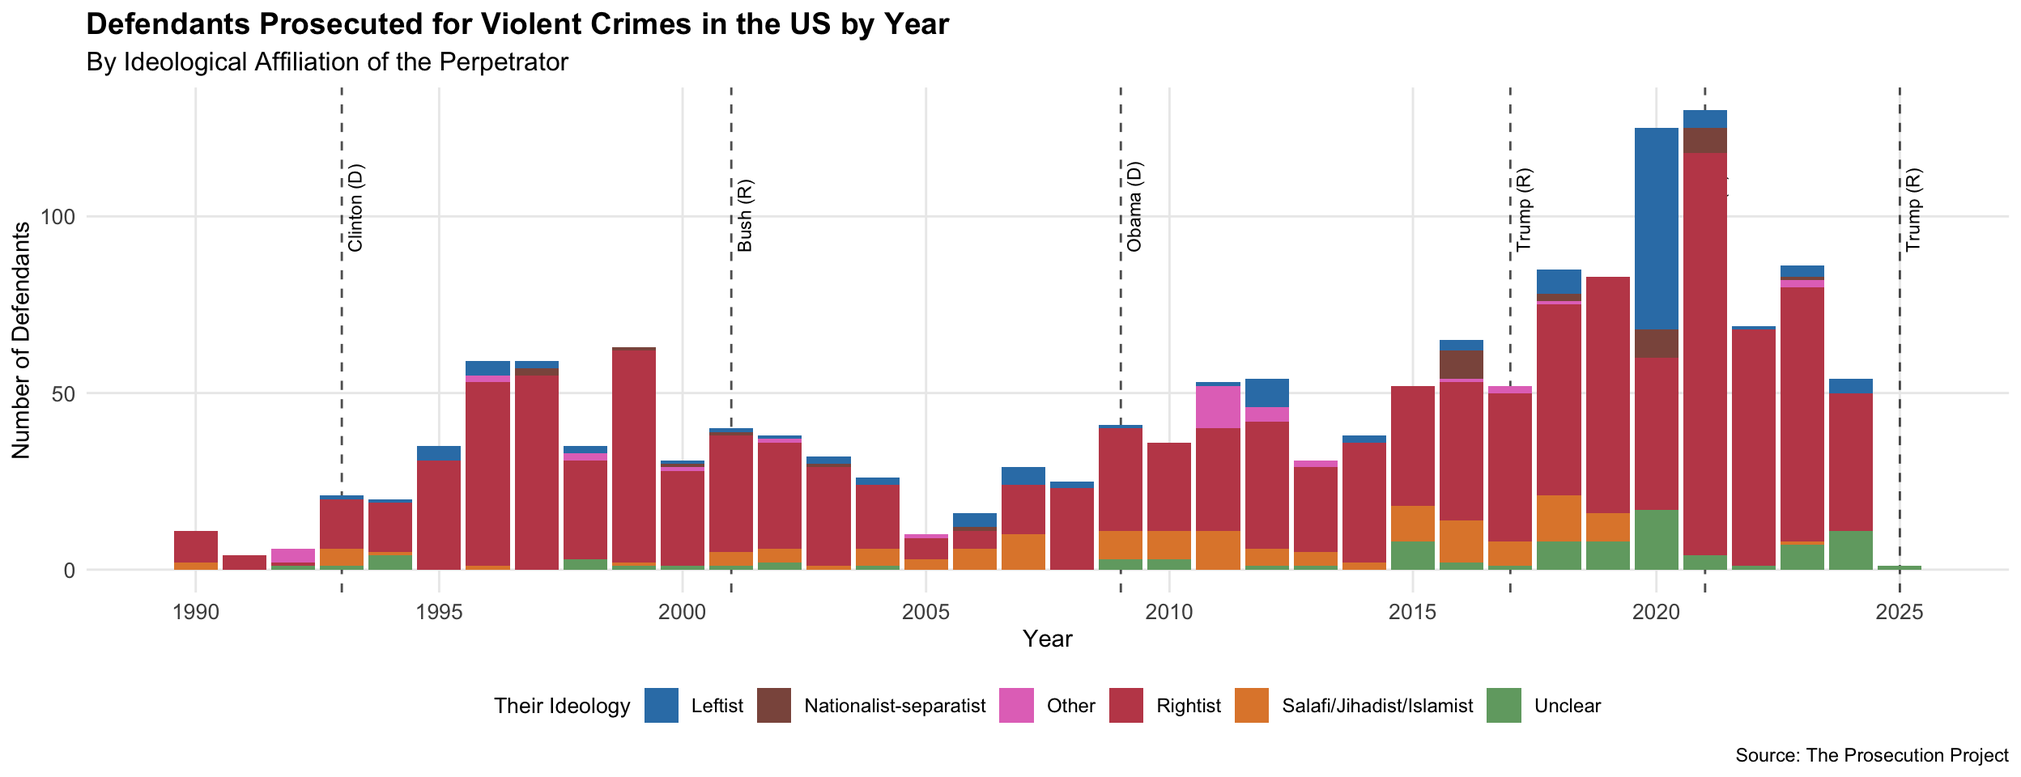
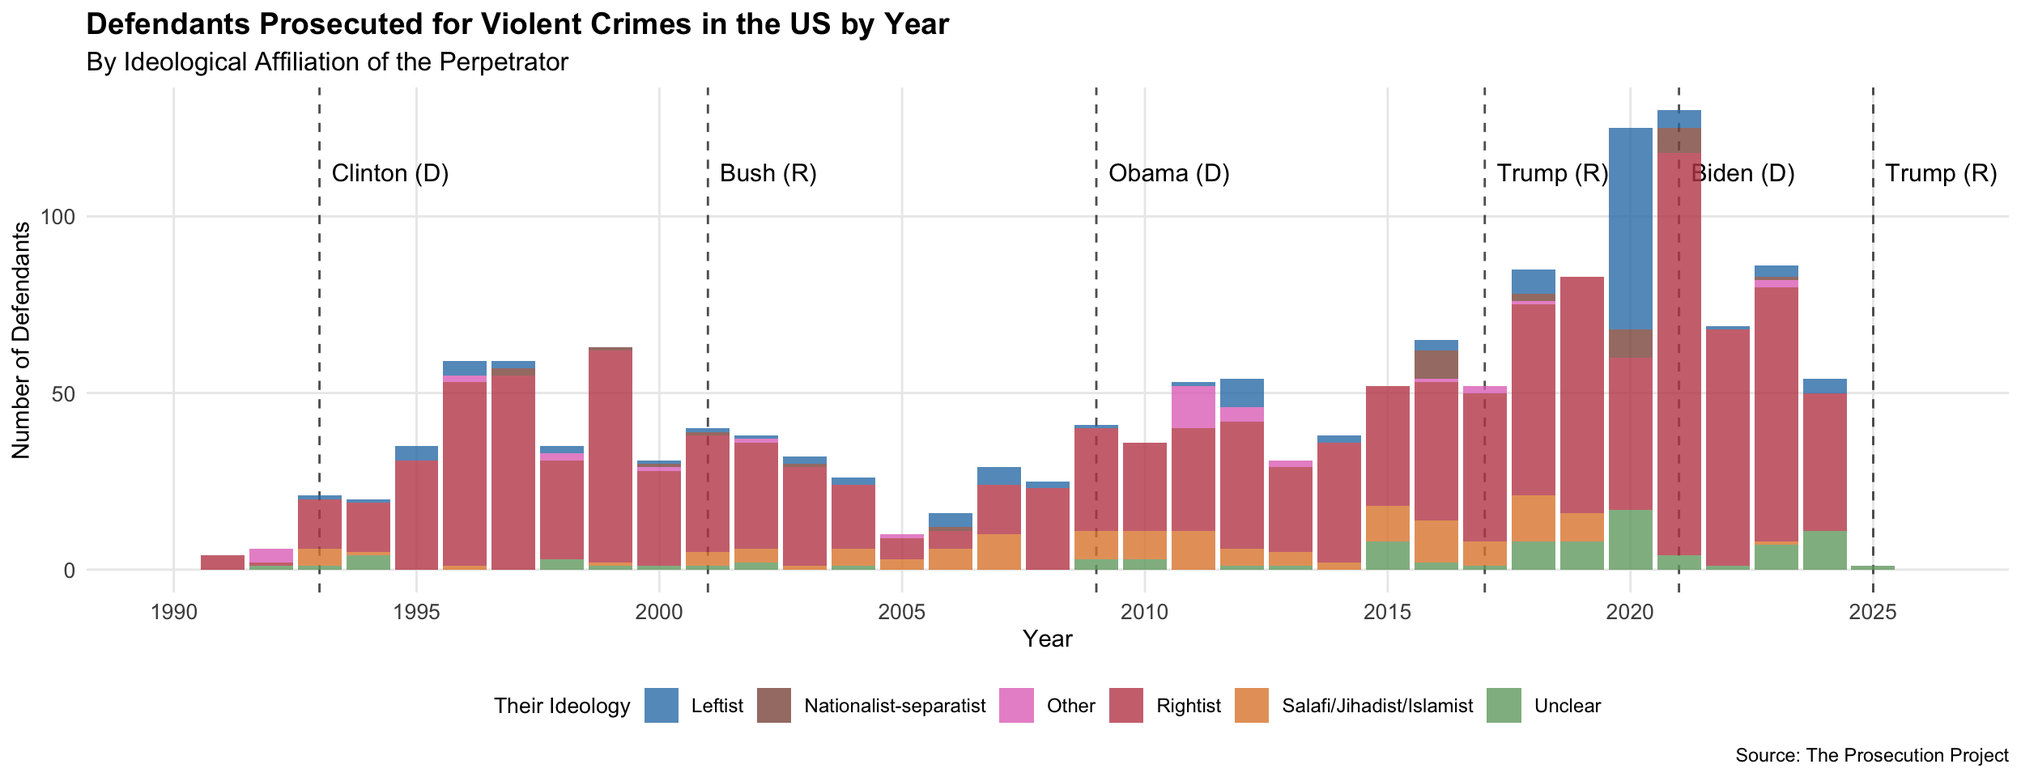
clarified presidents in charts and republished

diff --git a/violence.html b/violence.html
@@ -723,8 +723,8 @@ pre > code.sourceCode > span > a:first-child::before { text-decoration: underlin
 </div>
 </div>
 </section>
-<section id="defendants-prosecuted-for-violent-crimes-in-the-us-by-ideological-affiliation" class="level2">
-<h2 class="anchored" data-anchor-id="defendants-prosecuted-for-violent-crimes-in-the-us-by-ideological-affiliation">Defendants prosecuted for violent crimes in the US by ideological affiliation</h2>
+<section id="prosecutions-by-ideological-affiliation" class="level2">
+<h2 class="anchored" data-anchor-id="prosecutions-by-ideological-affiliation">Prosecutions by ideological affiliation</h2>
 <div class="cell">
 <details class="code-fold">
 <summary>Code</summary>
@@ -766,8 +766,8 @@ pre > code.sourceCode > span > a:first-child::before { text-decoration: underlin
 </div>
 </div>
 </section>
-<section id="defendants-prosecuted-for-violent-crimes-in-the-us-by-ideological-affiliation-by-year" class="level2 page-columns page-full">
-<h2 class="anchored" data-anchor-id="defendants-prosecuted-for-violent-crimes-in-the-us-by-ideological-affiliation-by-year">Defendants prosecuted for violent crimes in the US by ideological affiliation by year</h2>
+<section id="prosecutions-over-time" class="level2 page-columns page-full">
+<h2 class="anchored" data-anchor-id="prosecutions-over-time">Prosecutions over time</h2>
 <div class="cell page-columns page-full">
 <details class="code-fold">
 <summary>Code</summary>
@@ -787,9 +787,9 @@ pre > code.sourceCode > span > a:first-child::before { text-decoration: underlin
 <span id="cb15-14"><a href="#cb15-14" aria-hidden="true" tabindex="-1"></a><span class="fu">ggplot</span>() <span class="sc">+</span></span>
 <span id="cb15-15"><a href="#cb15-15" aria-hidden="true" tabindex="-1"></a>    <span class="fu">geom_vline</span>(<span class="at">data =</span> presidents, <span class="fu">aes</span>(<span class="at">xintercept =</span> year), </span>
 <span id="cb15-16"><a href="#cb15-16" aria-hidden="true" tabindex="-1"></a>               <span class="at">color =</span> <span class="st">"black"</span>, <span class="at">linetype =</span> <span class="st">"dashed"</span>, <span class="at">alpha =</span> <span class="fl">0.7</span>) <span class="sc">+</span></span>
-<span id="cb15-17"><a href="#cb15-17" aria-hidden="true" tabindex="-1"></a>    <span class="fu">geom_text</span>(<span class="at">data =</span> presidents, <span class="fu">aes</span>(<span class="at">x =</span> year, <span class="at">y =</span> <span class="dv">90</span>, <span class="at">label =</span> president), </span>
-<span id="cb15-18"><a href="#cb15-18" aria-hidden="true" tabindex="-1"></a>              <span class="at">vjust =</span> <span class="fl">1.5</span>, <span class="at">hjust =</span> <span class="dv">0</span>, <span class="at">angle =</span> <span class="dv">90</span>, <span class="at">size =</span> <span class="dv">3</span>, <span class="at">color =</span> <span class="st">"black"</span>) <span class="sc">+</span></span>
-<span id="cb15-19"><a href="#cb15-19" aria-hidden="true" tabindex="-1"></a>    <span class="fu">geom_col</span>(<span class="at">data =</span> df_yearly, <span class="fu">aes</span>(<span class="at">x =</span> year, <span class="at">y =</span> prosecutions, <span class="at">fill =</span> ideology_simple)) <span class="sc">+</span></span>
+<span id="cb15-17"><a href="#cb15-17" aria-hidden="true" tabindex="-1"></a>    <span class="fu">geom_text</span>(<span class="at">data =</span> presidents, <span class="fu">aes</span>(<span class="at">x =</span> year<span class="fl">+.25</span>, <span class="at">y =</span> <span class="dv">110</span>, <span class="at">label =</span> president), </span>
+<span id="cb15-18"><a href="#cb15-18" aria-hidden="true" tabindex="-1"></a>              <span class="at">vjust =</span> <span class="dv">0</span>, <span class="at">hjust =</span> <span class="dv">0</span>, <span class="at">angle =</span> <span class="dv">0</span>, <span class="at">size =</span> <span class="dv">4</span>, <span class="at">color =</span> <span class="st">"black"</span>) <span class="sc">+</span></span>
+<span id="cb15-19"><a href="#cb15-19" aria-hidden="true" tabindex="-1"></a>    <span class="fu">geom_col</span>(<span class="at">data =</span> df_yearly, <span class="fu">aes</span>(<span class="at">x =</span> year, <span class="at">y =</span> prosecutions, <span class="at">fill =</span> ideology_simple), <span class="at">alpha =</span> .<span class="dv">8</span>) <span class="sc">+</span></span>
 <span id="cb15-20"><a href="#cb15-20" aria-hidden="true" tabindex="-1"></a>    <span class="fu">scale_fill_manual</span>(<span class="at">values =</span> <span class="fu">c</span>(</span>
 <span id="cb15-21"><a href="#cb15-21" aria-hidden="true" tabindex="-1"></a>        <span class="st">"Rightist"</span> <span class="ot">=</span> <span class="st">"#c14a58ff"</span>,                    <span class="co"># Red for Rightist</span></span>
 <span id="cb15-22"><a href="#cb15-22" aria-hidden="true" tabindex="-1"></a>        <span class="st">"Leftist"</span> <span class="ot">=</span> <span class="st">"#337fb5ff"</span>,                     <span class="co"># Blue for Leftist  </span></span>
@@ -798,27 +798,30 @@ pre > code.sourceCode > span > a:first-child::before { text-decoration: underlin
 <span id="cb15-25"><a href="#cb15-25" aria-hidden="true" tabindex="-1"></a>        <span class="st">"Nationalist-separatist"</span> <span class="ot">=</span> <span class="st">"#8c564b"</span>,      <span class="co"># Brown</span></span>
 <span id="cb15-26"><a href="#cb15-26" aria-hidden="true" tabindex="-1"></a>        <span class="st">"Other"</span> <span class="ot">=</span> <span class="st">"#e377c2"</span>                        <span class="co"># Pink</span></span>
 <span id="cb15-27"><a href="#cb15-27" aria-hidden="true" tabindex="-1"></a>    )) <span class="sc">+</span></span>
-<span id="cb15-28"><a href="#cb15-28" aria-hidden="true" tabindex="-1"></a>    <span class="fu">scale_x_continuous</span>(<span class="at">breaks =</span> scales<span class="sc">::</span><span class="fu">pretty_breaks</span>(<span class="at">n =</span> <span class="dv">8</span>)) <span class="sc">+</span></span>
-<span id="cb15-29"><a href="#cb15-29" aria-hidden="true" tabindex="-1"></a>    <span class="fu">labs</span>(</span>
-<span id="cb15-30"><a href="#cb15-30" aria-hidden="true" tabindex="-1"></a>        <span class="at">title =</span> <span class="st">"Defendants Prosecuted for Violent Crimes in the US by Year"</span>,</span>
-<span id="cb15-31"><a href="#cb15-31" aria-hidden="true" tabindex="-1"></a>        <span class="at">subtitle =</span> <span class="st">"By Ideological Affiliation of the Perpetrator"</span>,</span>
-<span id="cb15-32"><a href="#cb15-32" aria-hidden="true" tabindex="-1"></a>        <span class="at">x =</span> <span class="st">"Year"</span>,</span>
-<span id="cb15-33"><a href="#cb15-33" aria-hidden="true" tabindex="-1"></a>        <span class="at">y =</span> <span class="st">"Number of Defendants"</span>,</span>
-<span id="cb15-34"><a href="#cb15-34" aria-hidden="true" tabindex="-1"></a>        <span class="at">fill =</span> <span class="st">"Their Ideology"</span>,</span>
-<span id="cb15-35"><a href="#cb15-35" aria-hidden="true" tabindex="-1"></a>        <span class="at">caption =</span> <span class="st">"Source: The Prosecution Project"</span></span>
-<span id="cb15-36"><a href="#cb15-36" aria-hidden="true" tabindex="-1"></a>    ) <span class="sc">+</span></span>
-<span id="cb15-37"><a href="#cb15-37" aria-hidden="true" tabindex="-1"></a>    <span class="fu">guides</span>(<span class="at">fill =</span> <span class="fu">guide_legend</span>(<span class="at">ncol =</span> <span class="dv">6</span>)) <span class="sc">+</span></span>
-<span id="cb15-38"><a href="#cb15-38" aria-hidden="true" tabindex="-1"></a>    <span class="fu">theme_minimal</span>() <span class="sc">+</span></span>
-<span id="cb15-39"><a href="#cb15-39" aria-hidden="true" tabindex="-1"></a>    <span class="fu">theme</span>(</span>
-<span id="cb15-40"><a href="#cb15-40" aria-hidden="true" tabindex="-1"></a>        <span class="at">plot.title =</span> <span class="fu">element_text</span>(<span class="at">size =</span> <span class="dv">14</span>, <span class="at">face =</span> <span class="st">"bold"</span>),</span>
-<span id="cb15-41"><a href="#cb15-41" aria-hidden="true" tabindex="-1"></a>        <span class="at">plot.subtitle =</span> <span class="fu">element_text</span>(<span class="at">size =</span> <span class="dv">12</span>),</span>
-<span id="cb15-42"><a href="#cb15-42" aria-hidden="true" tabindex="-1"></a>        <span class="at">axis.text =</span> <span class="fu">element_text</span>(<span class="at">size =</span> <span class="dv">10</span>),</span>
-<span id="cb15-43"><a href="#cb15-43" aria-hidden="true" tabindex="-1"></a>        <span class="at">axis.title =</span> <span class="fu">element_text</span>(<span class="at">size =</span> <span class="dv">11</span>),</span>
-<span id="cb15-44"><a href="#cb15-44" aria-hidden="true" tabindex="-1"></a>        <span class="at">panel.grid.minor =</span> <span class="fu">element_blank</span>(),</span>
-<span id="cb15-45"><a href="#cb15-45" aria-hidden="true" tabindex="-1"></a>        <span class="at">legend.position =</span> <span class="st">"bottom"</span>,</span>
-<span id="cb15-46"><a href="#cb15-46" aria-hidden="true" tabindex="-1"></a>        <span class="at">legend.title =</span> <span class="fu">element_text</span>(<span class="at">size =</span> <span class="dv">10</span>),</span>
-<span id="cb15-47"><a href="#cb15-47" aria-hidden="true" tabindex="-1"></a>        <span class="at">legend.text =</span> <span class="fu">element_text</span>(<span class="at">size =</span> <span class="dv">9</span>)</span>
-<span id="cb15-48"><a href="#cb15-48" aria-hidden="true" tabindex="-1"></a>    )  </span></code></pre></div><button title="Copy to Clipboard" class="code-copy-button"><i class="bi"></i></button></div>
+<span id="cb15-28"><a href="#cb15-28" aria-hidden="true" tabindex="-1"></a>    <span class="fu">scale_x_continuous</span>(</span>
+<span id="cb15-29"><a href="#cb15-29" aria-hidden="true" tabindex="-1"></a>        <span class="at">breaks =</span> scales<span class="sc">::</span><span class="fu">pretty_breaks</span>(<span class="at">n =</span> <span class="dv">9</span>),</span>
+<span id="cb15-30"><a href="#cb15-30" aria-hidden="true" tabindex="-1"></a>        <span class="at">limits =</span> <span class="fu">c</span>(<span class="dv">1990</span>, <span class="dv">2026</span>)</span>
+<span id="cb15-31"><a href="#cb15-31" aria-hidden="true" tabindex="-1"></a>    ) <span class="sc">+</span></span>
+<span id="cb15-32"><a href="#cb15-32" aria-hidden="true" tabindex="-1"></a>    <span class="fu">labs</span>(</span>
+<span id="cb15-33"><a href="#cb15-33" aria-hidden="true" tabindex="-1"></a>        <span class="at">title =</span> <span class="st">"Defendants Prosecuted for Violent Crimes in the US by Year"</span>,</span>
+<span id="cb15-34"><a href="#cb15-34" aria-hidden="true" tabindex="-1"></a>        <span class="at">subtitle =</span> <span class="st">"By Ideological Affiliation of the Perpetrator"</span>,</span>
+<span id="cb15-35"><a href="#cb15-35" aria-hidden="true" tabindex="-1"></a>        <span class="at">x =</span> <span class="st">"Year"</span>,</span>
+<span id="cb15-36"><a href="#cb15-36" aria-hidden="true" tabindex="-1"></a>        <span class="at">y =</span> <span class="st">"Number of Defendants"</span>,</span>
+<span id="cb15-37"><a href="#cb15-37" aria-hidden="true" tabindex="-1"></a>        <span class="at">fill =</span> <span class="st">"Their Ideology"</span>,</span>
+<span id="cb15-38"><a href="#cb15-38" aria-hidden="true" tabindex="-1"></a>        <span class="at">caption =</span> <span class="st">"Source: The Prosecution Project"</span></span>
+<span id="cb15-39"><a href="#cb15-39" aria-hidden="true" tabindex="-1"></a>    ) <span class="sc">+</span></span>
+<span id="cb15-40"><a href="#cb15-40" aria-hidden="true" tabindex="-1"></a>    <span class="fu">guides</span>(<span class="at">fill =</span> <span class="fu">guide_legend</span>(<span class="at">ncol =</span> <span class="dv">6</span>)) <span class="sc">+</span></span>
+<span id="cb15-41"><a href="#cb15-41" aria-hidden="true" tabindex="-1"></a>    <span class="fu">theme_minimal</span>() <span class="sc">+</span></span>
+<span id="cb15-42"><a href="#cb15-42" aria-hidden="true" tabindex="-1"></a>    <span class="fu">theme</span>(</span>
+<span id="cb15-43"><a href="#cb15-43" aria-hidden="true" tabindex="-1"></a>        <span class="at">plot.title =</span> <span class="fu">element_text</span>(<span class="at">size =</span> <span class="dv">14</span>, <span class="at">face =</span> <span class="st">"bold"</span>),</span>
+<span id="cb15-44"><a href="#cb15-44" aria-hidden="true" tabindex="-1"></a>        <span class="at">plot.subtitle =</span> <span class="fu">element_text</span>(<span class="at">size =</span> <span class="dv">12</span>),</span>
+<span id="cb15-45"><a href="#cb15-45" aria-hidden="true" tabindex="-1"></a>        <span class="at">axis.text =</span> <span class="fu">element_text</span>(<span class="at">size =</span> <span class="dv">10</span>),</span>
+<span id="cb15-46"><a href="#cb15-46" aria-hidden="true" tabindex="-1"></a>        <span class="at">axis.title =</span> <span class="fu">element_text</span>(<span class="at">size =</span> <span class="dv">11</span>),</span>
+<span id="cb15-47"><a href="#cb15-47" aria-hidden="true" tabindex="-1"></a>        <span class="at">panel.grid.minor =</span> <span class="fu">element_blank</span>(),</span>
+<span id="cb15-48"><a href="#cb15-48" aria-hidden="true" tabindex="-1"></a>        <span class="at">legend.position =</span> <span class="st">"bottom"</span>,</span>
+<span id="cb15-49"><a href="#cb15-49" aria-hidden="true" tabindex="-1"></a>        <span class="at">legend.title =</span> <span class="fu">element_text</span>(<span class="at">size =</span> <span class="dv">10</span>),</span>
+<span id="cb15-50"><a href="#cb15-50" aria-hidden="true" tabindex="-1"></a>        <span class="at">legend.text =</span> <span class="fu">element_text</span>(<span class="at">size =</span> <span class="dv">9</span>)</span>
+<span id="cb15-51"><a href="#cb15-51" aria-hidden="true" tabindex="-1"></a>    )  </span></code></pre></div><button title="Copy to Clipboard" class="code-copy-button"><i class="bi"></i></button></div>
 </details>
 <div class="cell-output-display page-columns page-full">
 <div class="page-columns page-full">
@@ -832,7 +835,7 @@ pre > code.sourceCode > span > a:first-child::before { text-decoration: underlin
 <section id="deaths" class="level2">
 <h2 class="anchored" data-anchor-id="deaths">Deaths</h2>
 <p>The data is structured by prosecution. A single defendant can be prosecuted in multiple jurisdictions for the same incident. For example, a shooter can appear in a federal indictment and a state indictment for the same shooting. If I am not careful I could overcount deaths from these crimes.</p>
-<p>How often does this happen? How much would we overcount if we simply summed the number killed from all rows in the data?</p>
+<p>How often does this happen? How much would I overcount if I simply summed the number killed from all rows in the data?</p>
 <div class="cell">
 <details class="code-fold">
 <summary>Code</summary>
@@ -1017,7 +1020,7 @@ pre > code.sourceCode > span > a:first-child::before { text-decoration: underlin
 </table>
 </div>
 </div>
-<p>Out of our <strong>1615</strong> violent crime prosecutions, there are <strong>13</strong> defendants who were charged at multiple jurisdiction levels. If I simply summed the number killed from every row, I would mistakenly double count some deaths. For these 11 defendants, I would get <strong>72</strong> deaths instead of the actual <strong>36</strong> deaths. This would be an overcount of <strong>36</strong> deaths.</p>
+<p>Out of our <strong>1615</strong> violent crime prosecutions, there are <strong>13</strong> defendants who were charged at multiple jurisdiction levels. If I simply summed the number killed from every row, I would mistakenly double count some deaths. For these <strong>13</strong> defendants, I would get <strong>72</strong> deaths instead of the actual <strong>36</strong> deaths. This would be an overcount of <strong>36</strong> deaths.</p>
 <p>Now, let’s look at the number of deaths by ideological affiliation, and avoid double counting from cases where a defendant was prosecuted twice.</p>
 <div class="cell">
 <details class="code-fold">
@@ -1094,7 +1097,7 @@ pre > code.sourceCode > span > a:first-child::before { text-decoration: underlin
 <span id="cb18-6"><a href="#cb18-6" aria-hidden="true" tabindex="-1"></a>    <span class="fu">geom_vline</span>(<span class="at">data =</span> presidents, <span class="fu">aes</span>(<span class="at">xintercept =</span> year), </span>
 <span id="cb18-7"><a href="#cb18-7" aria-hidden="true" tabindex="-1"></a>               <span class="at">color =</span> <span class="st">"black"</span>, <span class="at">linetype =</span> <span class="st">"dashed"</span>, <span class="at">alpha =</span> <span class="fl">0.7</span>) <span class="sc">+</span></span>
 <span id="cb18-8"><a href="#cb18-8" aria-hidden="true" tabindex="-1"></a>    <span class="fu">geom_text</span>(<span class="at">data =</span> presidents, <span class="fu">aes</span>(<span class="at">x =</span> year, <span class="at">y =</span> <span class="dv">38</span>, <span class="at">label =</span> president), </span>
-<span id="cb18-9"><a href="#cb18-9" aria-hidden="true" tabindex="-1"></a>              <span class="at">vjust =</span> <span class="fl">1.5</span>, <span class="at">hjust =</span> <span class="dv">0</span>, <span class="at">angle =</span> <span class="dv">90</span>, <span class="at">size =</span> <span class="dv">3</span>, <span class="at">color =</span> <span class="st">"black"</span>) <span class="sc">+</span></span>
+<span id="cb18-9"><a href="#cb18-9" aria-hidden="true" tabindex="-1"></a>              <span class="at">vjust =</span> <span class="fl">1.65</span>, <span class="at">hjust =</span> <span class="dv">0</span>, <span class="at">angle =</span> <span class="dv">90</span>, <span class="at">size =</span> <span class="dv">3</span>, <span class="at">color =</span> <span class="st">"black"</span>) <span class="sc">+</span></span>
 <span id="cb18-10"><a href="#cb18-10" aria-hidden="true" tabindex="-1"></a>    <span class="fu">geom_col</span>(<span class="at">data =</span> yearly_left, <span class="fu">aes</span>(<span class="at">x =</span> year, <span class="at">y =</span> prosecutions, <span class="at">fill =</span> ideology_simple)) <span class="sc">+</span></span>
 <span id="cb18-11"><a href="#cb18-11" aria-hidden="true" tabindex="-1"></a>    <span class="fu">scale_fill_manual</span>(<span class="at">values =</span> <span class="fu">c</span>(</span>
 <span id="cb18-12"><a href="#cb18-12" aria-hidden="true" tabindex="-1"></a>        <span class="st">"Rightist"</span> <span class="ot">=</span> <span class="st">"#c14a58ff"</span>,                    <span class="co"># Red for Rightist</span></span>
@@ -1146,7 +1149,7 @@ pre > code.sourceCode > span > a:first-child::before { text-decoration: underlin
 <span id="cb19-6"><a href="#cb19-6" aria-hidden="true" tabindex="-1"></a>    <span class="fu">geom_vline</span>(<span class="at">data =</span> presidents, <span class="fu">aes</span>(<span class="at">xintercept =</span> year), </span>
 <span id="cb19-7"><a href="#cb19-7" aria-hidden="true" tabindex="-1"></a>               <span class="at">color =</span> <span class="st">"black"</span>, <span class="at">linetype =</span> <span class="st">"dashed"</span>, <span class="at">alpha =</span> <span class="fl">0.7</span>) <span class="sc">+</span></span>
 <span id="cb19-8"><a href="#cb19-8" aria-hidden="true" tabindex="-1"></a>    <span class="fu">geom_text</span>(<span class="at">data =</span> presidents, <span class="fu">aes</span>(<span class="at">x =</span> year, <span class="at">y =</span> <span class="dv">80</span>, <span class="at">label =</span> president), </span>
-<span id="cb19-9"><a href="#cb19-9" aria-hidden="true" tabindex="-1"></a>              <span class="at">vjust =</span> <span class="fl">1.5</span>, <span class="at">hjust =</span> <span class="dv">0</span>, <span class="at">angle =</span> <span class="dv">90</span>, <span class="at">size =</span> <span class="dv">3</span>, <span class="at">color =</span> <span class="st">"black"</span>) <span class="sc">+</span></span>
+<span id="cb19-9"><a href="#cb19-9" aria-hidden="true" tabindex="-1"></a>              <span class="at">vjust =</span> <span class="fl">1.65</span>, <span class="at">hjust =</span> <span class="dv">0</span>, <span class="at">angle =</span> <span class="dv">90</span>, <span class="at">size =</span> <span class="dv">3</span>, <span class="at">color =</span> <span class="st">"black"</span>) <span class="sc">+</span></span>
 <span id="cb19-10"><a href="#cb19-10" aria-hidden="true" tabindex="-1"></a>    <span class="fu">geom_col</span>(<span class="at">data =</span> yearly_right, <span class="fu">aes</span>(<span class="at">x =</span> year, <span class="at">y =</span> prosecutions, <span class="at">fill =</span> ideology_simple)) <span class="sc">+</span></span>
 <span id="cb19-11"><a href="#cb19-11" aria-hidden="true" tabindex="-1"></a>    <span class="fu">scale_fill_manual</span>(<span class="at">values =</span> <span class="fu">c</span>(</span>
 <span id="cb19-12"><a href="#cb19-12" aria-hidden="true" tabindex="-1"></a>        <span class="st">"Rightist"</span> <span class="ot">=</span> <span class="st">"#c14a58ff"</span>,                    <span class="co"># Red for Rightist</span></span>
@@ -1197,7 +1200,7 @@ pre > code.sourceCode > span > a:first-child::before { text-decoration: underlin
 <span id="cb20-5"><a href="#cb20-5" aria-hidden="true" tabindex="-1"></a>    <span class="fu">geom_vline</span>(<span class="at">data =</span> presidents, <span class="fu">aes</span>(<span class="at">xintercept =</span> year), </span>
 <span id="cb20-6"><a href="#cb20-6" aria-hidden="true" tabindex="-1"></a>               <span class="at">color =</span> <span class="st">"black"</span>, <span class="at">linetype =</span> <span class="st">"dashed"</span>, <span class="at">alpha =</span> <span class="fl">0.7</span>) <span class="sc">+</span></span>
 <span id="cb20-7"><a href="#cb20-7" aria-hidden="true" tabindex="-1"></a>    <span class="fu">geom_text</span>(<span class="at">data =</span> presidents, <span class="fu">aes</span>(<span class="at">x =</span> year, <span class="at">y =</span> <span class="dv">12</span>, <span class="at">label =</span> president), </span>
-<span id="cb20-8"><a href="#cb20-8" aria-hidden="true" tabindex="-1"></a>              <span class="at">vjust =</span> <span class="fl">1.5</span>, <span class="at">hjust =</span> <span class="dv">0</span>, <span class="at">angle =</span> <span class="dv">90</span>, <span class="at">size =</span> <span class="dv">3</span>, <span class="at">color =</span> <span class="st">"black"</span>) <span class="sc">+</span></span>
+<span id="cb20-8"><a href="#cb20-8" aria-hidden="true" tabindex="-1"></a>              <span class="at">vjust =</span> <span class="fl">1.65</span>, <span class="at">hjust =</span> <span class="dv">0</span>, <span class="at">angle =</span> <span class="dv">90</span>, <span class="at">size =</span> <span class="dv">3</span>, <span class="at">color =</span> <span class="st">"black"</span>) <span class="sc">+</span></span>
 <span id="cb20-9"><a href="#cb20-9" aria-hidden="true" tabindex="-1"></a>    <span class="fu">geom_col</span>(<span class="at">data =</span> yearly_unclear, <span class="fu">aes</span>(<span class="at">x =</span> year, <span class="at">y =</span> prosecutions, <span class="at">fill =</span> ideology_simple)) <span class="sc">+</span></span>
 <span id="cb20-10"><a href="#cb20-10" aria-hidden="true" tabindex="-1"></a>    <span class="fu">scale_fill_manual</span>(<span class="at">values =</span> <span class="fu">c</span>(</span>
 <span id="cb20-11"><a href="#cb20-11" aria-hidden="true" tabindex="-1"></a>        <span class="st">"Rightist"</span> <span class="ot">=</span> <span class="st">"#c14a58ff"</span>,                    <span class="co"># Red for Rightist</span></span>
